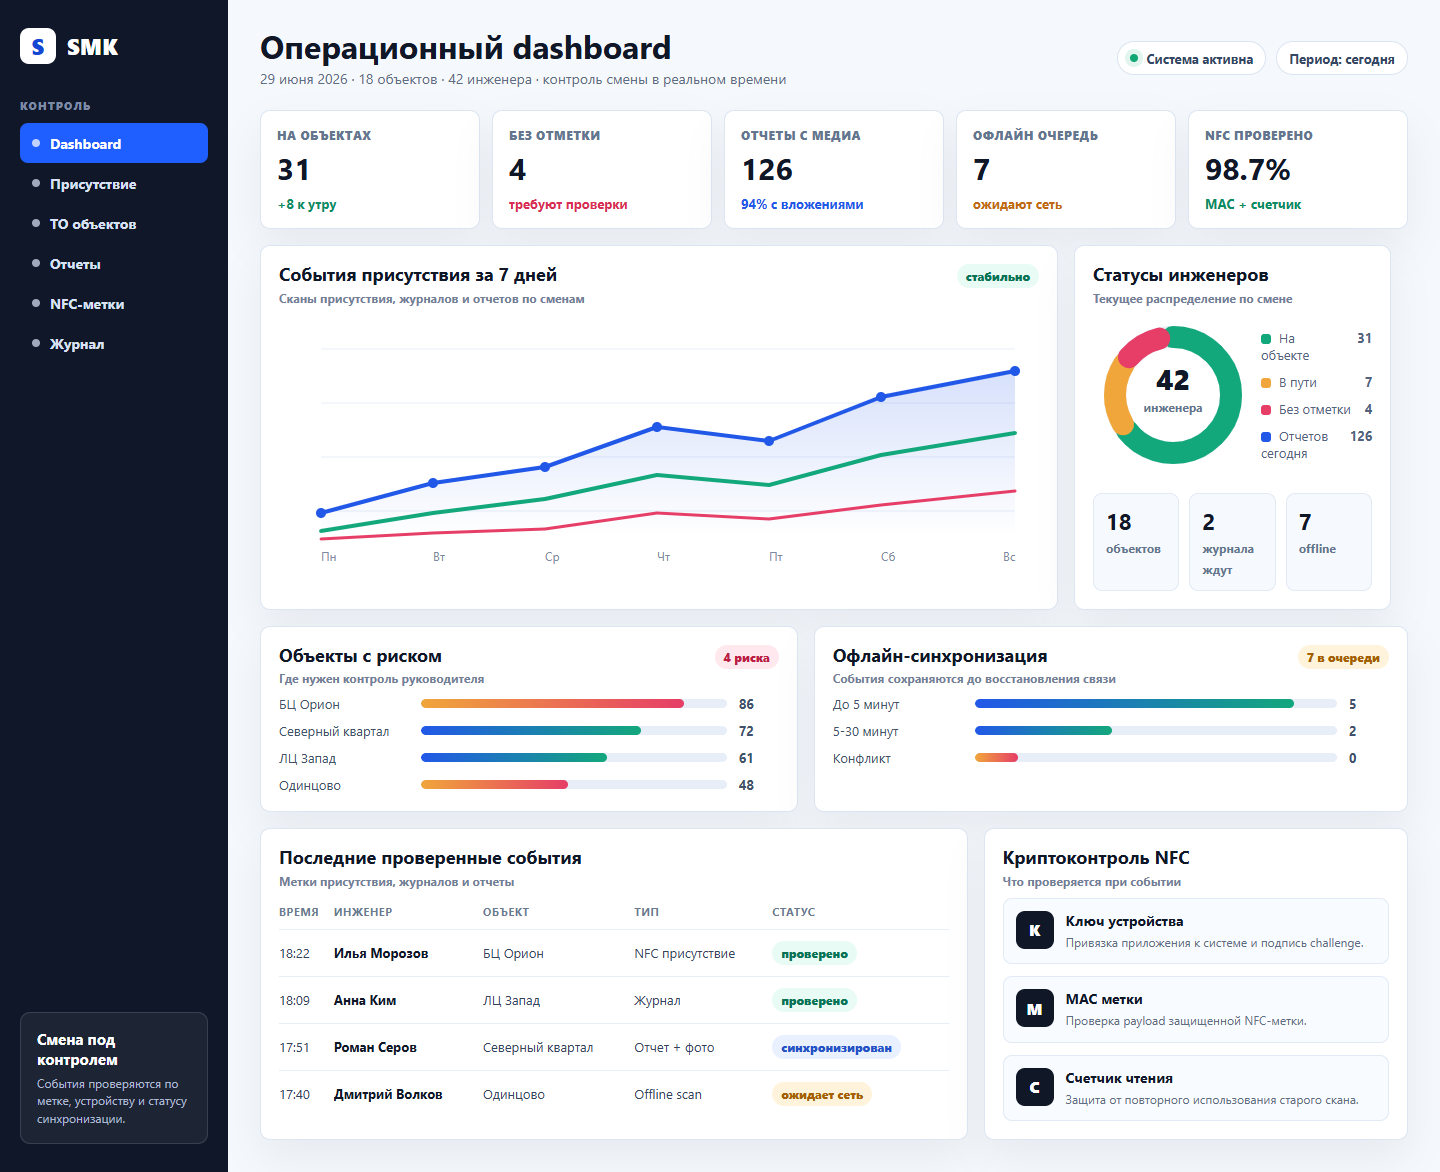
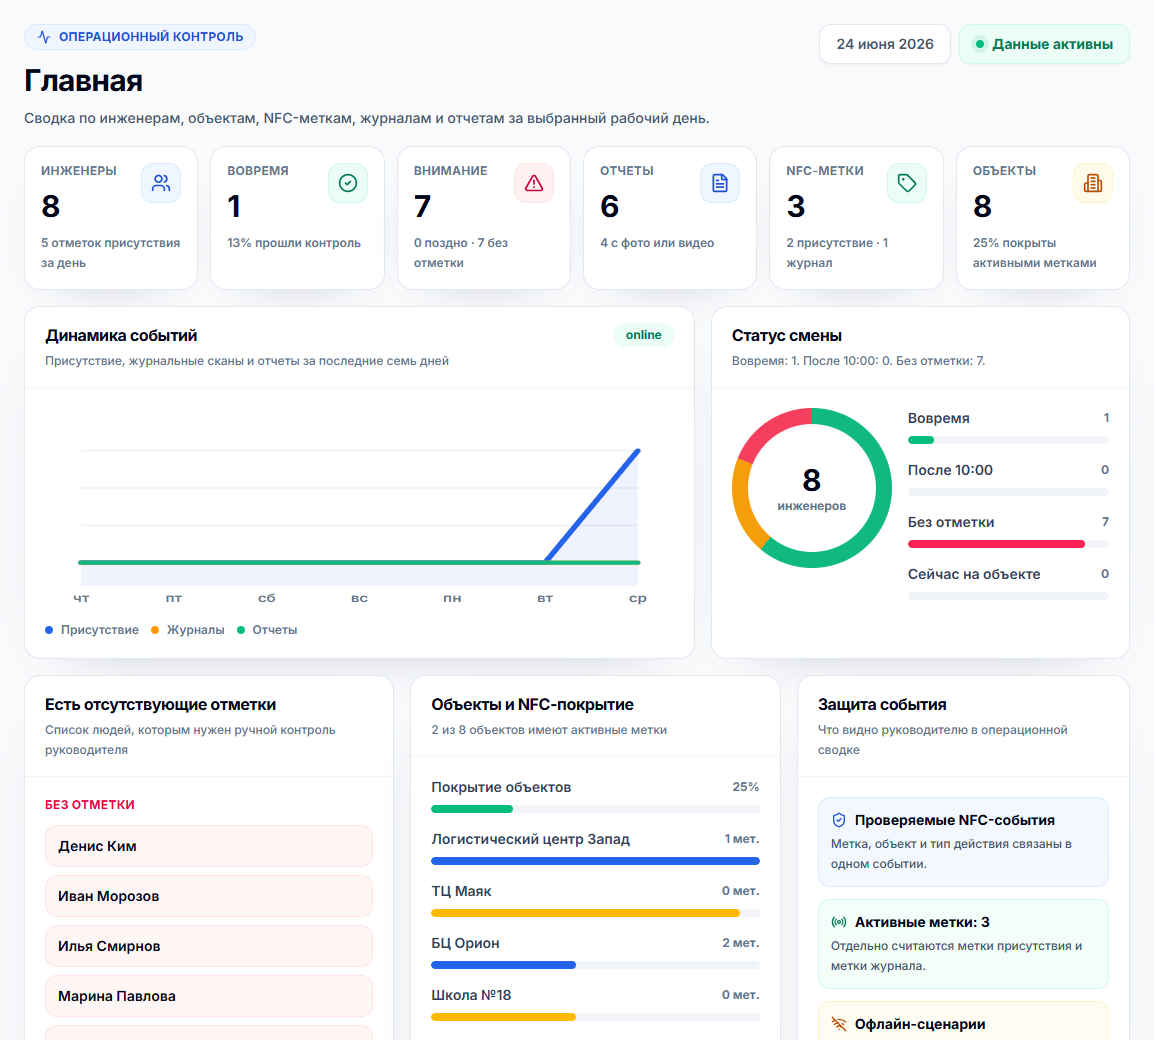
Use real admin dashboard on landing

diff --git a/styles.css b/styles.css
@@ -54,7 +54,7 @@ a {
   align-items: center;
   justify-content: space-between;
   gap: 24px;
-  padding: 14px clamp(18px, 4vw, 52px);
+  padding: 12px clamp(18px, 3.6vw, 46px);
   background: rgba(247, 249, 253, 0.78);
   border-bottom: 1px solid rgba(220, 229, 242, 0.72);
   backdrop-filter: blur(18px);
@@ -69,8 +69,8 @@ a {
 }
 
 .brand img {
-  width: 34px;
-  height: 34px;
+  width: 30px;
+  height: 30px;
 }
 
 .nav {
@@ -92,11 +92,11 @@ a {
 
 .hero {
   position: relative;
-  min-height: 86svh;
+  min-height: 76svh;
   display: grid;
   align-items: center;
   overflow: hidden;
-  padding: 96px clamp(20px, 5vw, 68px) 64px;
+  padding: 84px clamp(20px, 4.5vw, 58px) 52px;
   border-bottom: 1px solid var(--line);
 }
 
@@ -121,7 +121,7 @@ a {
 
 .hero-content {
   position: relative;
-  width: min(680px, 100%);
+  width: min(620px, 100%);
 }
 
 .eyebrow {
@@ -142,30 +142,30 @@ p {
 
 h1 {
   margin: 0;
-  max-width: 680px;
-  font-size: clamp(34px, 4.8vw, 58px);
-  line-height: 1.03;
+  max-width: 620px;
+  font-size: clamp(30px, 4vw, 48px);
+  line-height: 1.08;
   letter-spacing: 0;
 }
 
 h2 {
   margin: 0;
-  max-width: 760px;
-  font-size: clamp(26px, 3.2vw, 40px);
-  line-height: 1.12;
+  max-width: 700px;
+  font-size: clamp(24px, 2.65vw, 34px);
+  line-height: 1.15;
 }
 
 h3 {
   margin: 0 0 8px;
-  font-size: 18px;
+  font-size: 16px;
   line-height: 1.22;
 }
 
 .hero-copy {
-  max-width: 600px;
-  margin: 20px 0 0;
+  max-width: 560px;
+  margin: 18px 0 0;
   color: #364760;
-  font-size: clamp(16px, 1.55vw, 20px);
+  font-size: clamp(15px, 1.35vw, 18px);
 }
 
 .hero-actions {
@@ -177,11 +177,11 @@ h3 {
 
 .button {
   display: inline-flex;
-  min-height: 44px;
+  min-height: 40px;
   align-items: center;
   justify-content: center;
   border-radius: 8px;
-  padding: 0 18px;
+  padding: 0 16px;
   border: 1px solid var(--line);
   font-weight: 760;
   transition:
@@ -209,20 +209,20 @@ h3 {
   display: grid;
   grid-template-columns: repeat(3, minmax(0, 1fr));
   gap: 12px;
-  width: min(680px, 100%);
-  margin: 34px 0 0;
+  width: min(600px, 100%);
+  margin: 28px 0 0;
 }
 
 .hero-facts div {
-  min-height: 74px;
-  padding: 14px;
+  min-height: 66px;
+  padding: 12px;
   background: rgba(255, 255, 255, 0.78);
   border: 1px solid rgba(220, 229, 242, 0.9);
   border-radius: 8px;
 }
 
 .hero-facts dt {
-  font-size: 19px;
+  font-size: 17px;
   font-weight: 800;
 }
 
@@ -234,21 +234,21 @@ h3 {
 }
 
 .section {
-  padding: clamp(52px, 6vw, 84px) clamp(20px, 5vw, 68px);
+  padding: clamp(44px, 5vw, 68px) clamp(20px, 4.5vw, 58px);
 }
 
 .section-head {
   display: grid;
-  gap: 14px;
-  max-width: 880px;
-  margin-bottom: 30px;
+  gap: 12px;
+  max-width: 780px;
+  margin-bottom: 24px;
 }
 
 .section-head p:not(.eyebrow) {
-  max-width: 720px;
+  max-width: 660px;
   margin: 0;
   color: var(--muted);
-  font-size: 16px;
+  font-size: 15px;
 }
 
 .intro-grid,
@@ -260,8 +260,8 @@ h3 {
 
 .intro-grid article,
 .value-grid article {
-  min-height: 180px;
-  padding: 20px;
+  min-height: 156px;
+  padding: 18px;
   background: var(--panel);
   border: 1px solid var(--line);
   border-radius: 8px;
@@ -301,16 +301,16 @@ h3 {
 .nfc-layout {
   display: grid;
   grid-template-columns: minmax(280px, 0.8fr) minmax(0, 1.2fr);
-  gap: clamp(24px, 4vw, 52px);
+  gap: clamp(22px, 3.4vw, 42px);
   align-items: center;
 }
 
 .phone-card {
-  width: min(330px, 100%);
+  width: min(292px, 100%);
   margin-inline: auto;
   padding: 12px;
   background: #101828;
-  border-radius: 32px;
+  border-radius: 28px;
   box-shadow: var(--shadow);
 }
 
@@ -328,19 +328,19 @@ h3 {
 }
 
 .phone-screen {
-  min-height: 440px;
+  min-height: 376px;
   display: flex;
   flex-direction: column;
   justify-content: center;
-  padding: 26px;
+  padding: 22px;
   text-align: center;
   background: linear-gradient(180deg, #f9fbff, #eef5ff);
-  border-radius: 24px;
+  border-radius: 20px;
 }
 
 .tag-art {
-  width: 76px;
-  margin: 0 auto 22px;
+  width: 62px;
+  margin: 0 auto 18px;
 }
 
 .phone-label {
@@ -353,7 +353,7 @@ h3 {
 
 .phone-screen h3 {
   margin-top: 10px;
-  font-size: 25px;
+  font-size: 22px;
 }
 
 .scan-status {
@@ -361,13 +361,13 @@ h3 {
   align-items: center;
   justify-content: center;
   gap: 8px;
-  margin: 30px auto 0;
-  padding: 10px 14px;
+  margin: 24px auto 0;
+  padding: 9px 12px;
   color: #066147;
   background: #e8fbf4;
   border: 1px solid #b7ebd8;
   border-radius: 8px;
-  font-size: 14px;
+  font-size: 13px;
   font-weight: 760;
 }
 
@@ -390,8 +390,8 @@ h3 {
   display: grid;
   grid-template-columns: 58px 1fr;
   gap: 16px;
-  min-height: 108px;
-  padding: 18px;
+  min-height: 96px;
+  padding: 16px;
   background: #f8fbff;
   border: 1px solid var(--line);
   border-radius: 8px;
@@ -416,7 +416,7 @@ h3 {
 .security-layout {
   display: grid;
   grid-template-columns: minmax(320px, 0.95fr) minmax(0, 1.05fr);
-  gap: clamp(24px, 4vw, 48px);
+  gap: clamp(22px, 3.4vw, 40px);
   align-items: start;
 }
 
@@ -427,8 +427,8 @@ h3 {
 }
 
 .security-node {
-  min-height: 178px;
-  padding: 18px;
+  min-height: 154px;
+  padding: 16px;
   background: #fff;
   border: 1px solid var(--line);
   border-radius: 8px;
@@ -440,7 +440,7 @@ h3 {
   width: 36px;
   height: 36px;
   place-items: center;
-  margin-bottom: 18px;
+  margin-bottom: 14px;
   color: #fff;
   background: #101828;
   border-radius: 8px;
@@ -451,7 +451,7 @@ h3 {
 .security-node strong {
   display: block;
   margin-bottom: 8px;
-  font-size: 17px;
+  font-size: 15px;
   line-height: 1.25;
 }
 
@@ -491,7 +491,7 @@ h3 {
 }
 
 .security-grid article {
-  padding: 20px;
+  padding: 16px;
   background: #fff;
   border: 1px solid var(--line);
   border-radius: 8px;
@@ -503,7 +503,7 @@ h3 {
 }
 
 .screenshot {
-  max-width: 1120px;
+  max-width: 840px;
   margin: 0 auto;
 }
 
@@ -519,7 +519,7 @@ h3 {
 }
 
 .screenshot.large {
-  max-width: 980px;
+  max-width: 700px;
 }
 
 .screenshot.large img {
@@ -527,18 +527,18 @@ h3 {
 }
 
 .screenshot figcaption {
-  margin-top: 14px;
+  margin-top: 10px;
   color: #4d5f79;
-  font-size: 15px;
+  font-size: 13px;
   font-weight: 650;
 }
 
 .screen-grid {
   display: grid;
   grid-template-columns: repeat(3, minmax(0, 1fr));
-  gap: 18px;
-  max-width: 1120px;
-  margin: 26px auto 0;
+  gap: 14px;
+  max-width: 840px;
+  margin: 22px auto 0;
 }
 
 .screen-grid .screenshot {
@@ -546,8 +546,8 @@ h3 {
 }
 
 .dashboard-showcase {
-  max-width: 1080px;
-  margin-bottom: 30px;
+  max-width: 800px;
+  margin-bottom: 24px;
 }
 
 .dashboard-showcase img {
@@ -564,7 +564,7 @@ h3 {
 }
 
 .value-grid article {
-  min-height: 190px;
+  min-height: 164px;
 }
 
 @media (max-width: 980px) {

diff --git a/index.html b/index.html
@@ -36,7 +36,6 @@
         <div class="hero-bg" aria-hidden="true"></div>
         <div class="hero-shade" aria-hidden="true"></div>
         <div class="hero-content">
-          <p class="eyebrow">Мобильный контроль объектов</p>
           <h1 id="hero-title">SMK: контроль инженеров и объектов через защищенные NFC-метки</h1>
           <p class="hero-copy">
             Решение помогает видеть, кто был на объекте, когда была подтверждена работа с журналом и какие отчеты с фото или видео переданы в офис, без проводной СКУД-инфраструктуры на каждой точке.
@@ -174,7 +173,7 @@
             <div class="security-node dark">
               <span>04</span>
               <strong>Проверка в офисе</strong>
-              <p>В админке видно, где и когда была сделана отметка, включая статус доставки.</p>
+              <p>В админке видно, где и когда была сделана отметка: уже синхронизирована она или еще ожидает связи.</p>
             </div>
           </div>
 
@@ -239,9 +238,9 @@
         <figure class="screenshot dashboard-showcase">
           <picture>
             <source media="(max-width: 620px)" srcset="./assets/screenshots/product-dashboard-analytics-mobile.png" />
-            <img src="./assets/screenshots/product-dashboard-analytics.png" alt="Операционный dashboard SMK с графиками и показателями по инженерам и объектам" />
+            <img src="./assets/screenshots/product-dashboard-analytics.png" alt="Главная страница админки SMK с графиками и показателями по инженерам и объектам" />
           </picture>
-          <figcaption>Операционный dashboard: присутствие, офлайн-очередь, отчеты, проблемные объекты и динамика событий на одном экране.</figcaption>
+          <figcaption>Главная админки: присутствие, отчеты, объекты, NFC-метки и зоны внимания на одном экране.</figcaption>
         </figure>
 
         <div class="screen-grid">